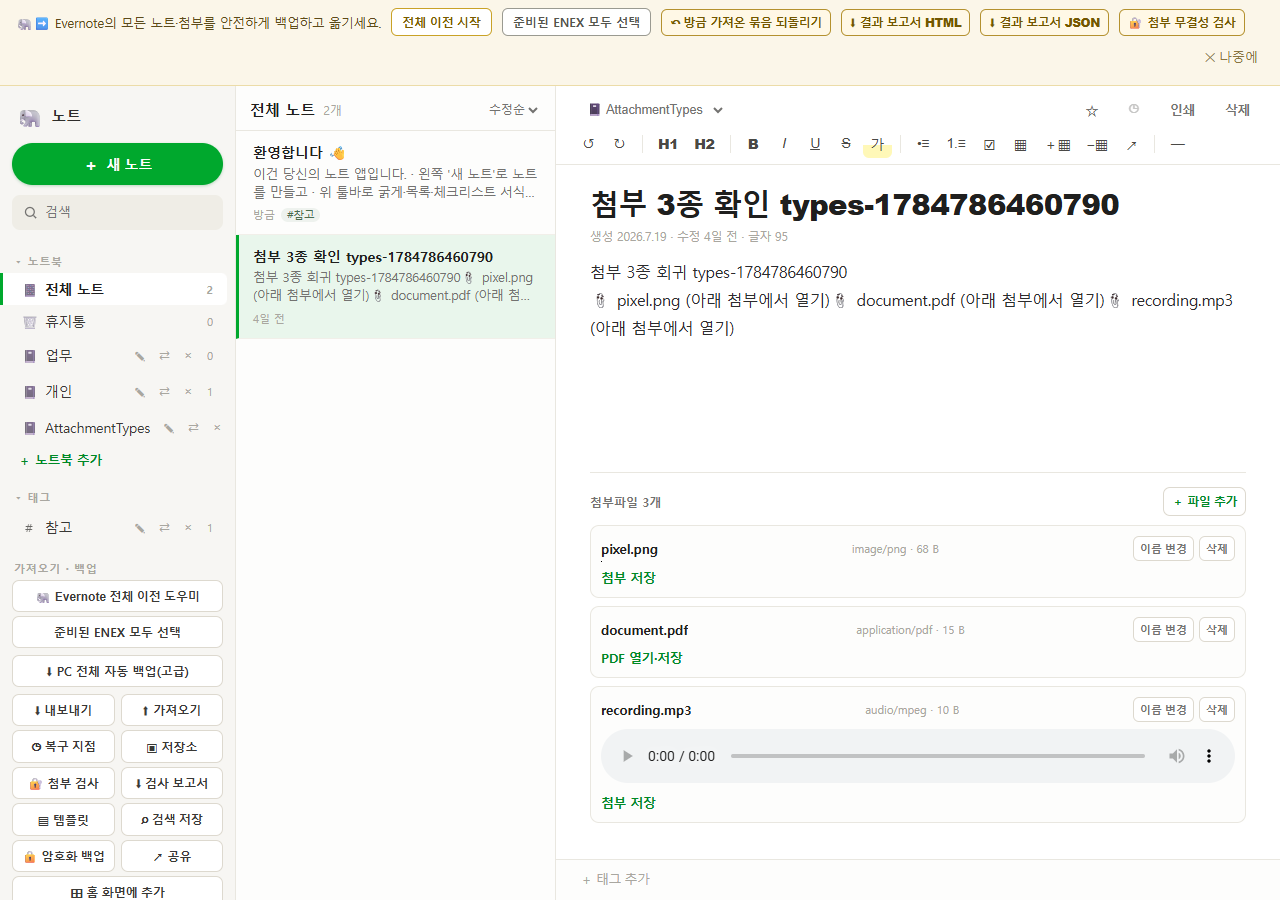
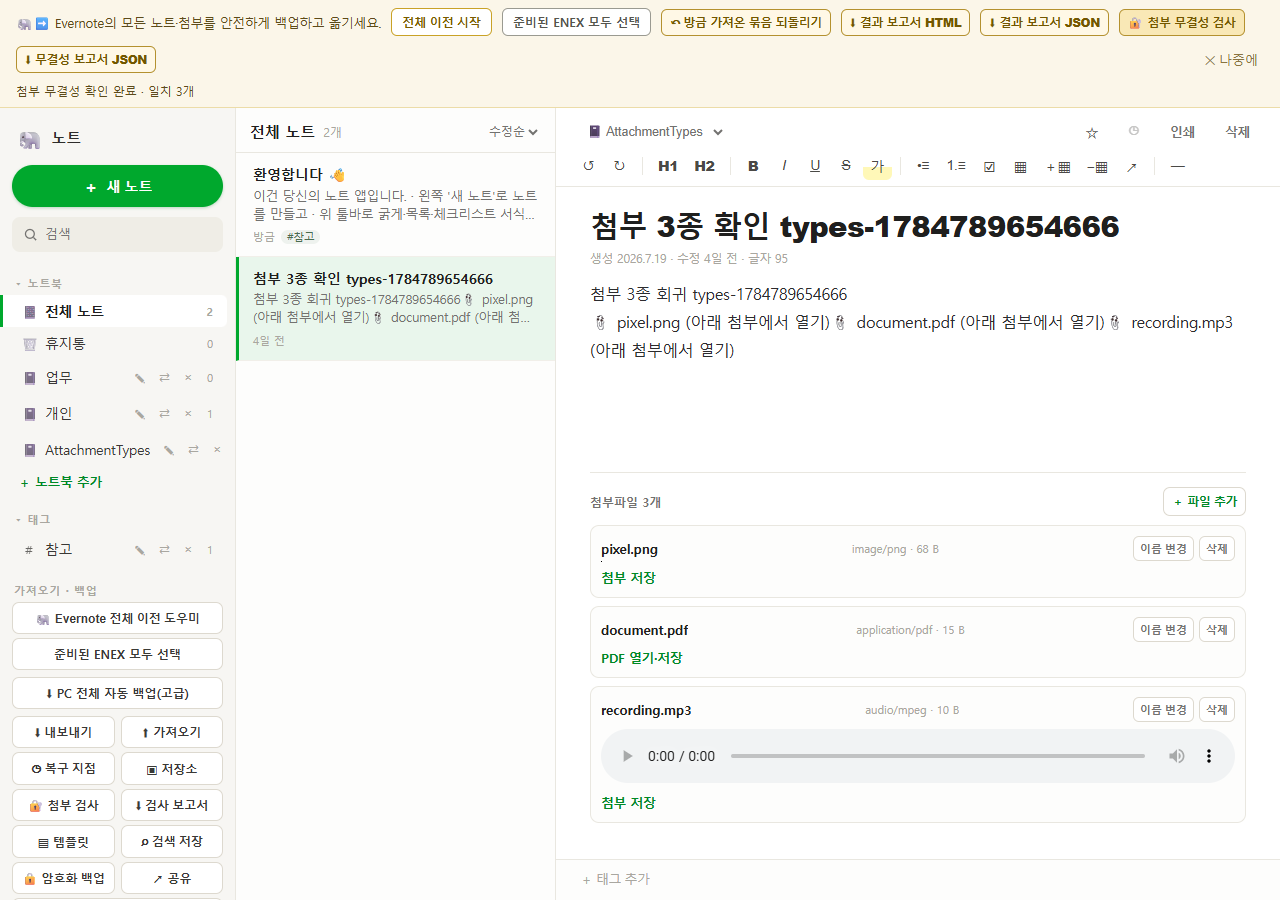
verify public v16 attachment integrity

diff --git a/NEXT_PRIORITIES.md b/NEXT_PRIORITIES.md
@@ -430,6 +430,15 @@ v5 schema 5와 Evernote 전체 이전 핵심 흐름 완료: 실제 Windows Evern
 6. [대기] 실제 PC Chrome 연결 뒤 실데이터 가져오기 무결성 감사
 7. [외부] Firebase 실제 활성화 뒤 PC→휴대폰 클라우드 여정
 
+## 2026-07-23 · 즉시 실행 17번 완료: 첨부 무결성 회귀 (추가)
+
+1. [x] 공개 v16 PDF·이미지·녹음 SHA-256·크기·참조 무결성 검사
+2. [x] 무결성 보고서의 파일명 비포함 확인
+3. [Codex] JSON 백업 스키마 독립 검사와 서비스워커 캐시 갱신 회귀
+4. [Codex] RC 자동 점검표·증거 정합성 감사
+5. [대기] 실제 PC Chrome 연결 뒤 실데이터 가져오기 무결성 감사
+6. [외부] Firebase 실제 활성화 뒤 PC→휴대폰 클라우드 여정
+
 ## 2026-07-23 · 즉시 실행 14~16번 완료: ENEX 완전성·성능 기준선 (추가)
 
 1. [x] 공개 v16 0바이트·공백·노트 0개 ENEX 경고와 무변경 회귀

diff --git a/진행문서_앱창작.md b/진행문서_앱창작.md
@@ -652,3 +652,9 @@ v5 완료·3중 저장·인수인계 완비. 다음: B(첨부/IndexedDB) 또는 
 - 정상/빈/노트0 ENEX 혼합에서는 정상 노트·첨부만 분석하고, Evernote 전체 수량이 일치할 때만 완전 이전으로 판정했다.
 - 합성 10,000노트 manifest 준비·검증이 상태 서명을 바꾸지 않고 통과했다. PC 실데이터 성능·무결성은 별도 외부 증거로 남긴다.
 - 프롬프트 개선: 있음. 대규모 합성 기준선과 실제 사용자 데이터 검증을 같은 성과로 합치지 않고, 각각의 범위·한계를 함께 기록한다.
+
+## 81) 2026-07-23 · 공개 v16 첨부 SHA-256 무결성 회귀 통과 (추가)
+
+- 즉시 실행 17번을 완료했다. PDF·이미지·녹음 합성 첨부 3종의 SHA-256·크기·참조가 모두 일치했고 문제 수는 0이었다.
+- 무결성 보고서에는 파일명·노트 내용이 들어가지 않음을 자동 확인했다. 테스트 상태는 원상복구 서명으로 정리했다.
+- 프롬프트 개선: 있음. 첨부 무결성 검사는 해시 일치만 보지 말고, 사용자에게 내려받게 되는 보고서가 파일명·본문을 불필요하게 포함하지 않는지도 함께 검사한다.

diff --git a/HANDOVER_인수인계.md b/HANDOVER_인수인계.md
@@ -634,3 +634,8 @@
 - 0바이트·공백·노트 0개 ENEX는 원인과 Evernote 재내보내기 안내를 보여 주고, 노트·휴지통·미리보기를 바꾸지 않았다.
 - 정상·빈·노트 0개 ENEX를 섞은 가져오기에서는 정상 파일만 분석하고, 전체 노트·노트북 수가 일치할 때만 완전 이전 판정을 냈다.
 - 합성 10,000노트 manifest 준비·검증은 상태 서명 무변경으로 통과했다. 이는 실데이터 성능 보증이 아니라 자동 회귀 기준선이다.
+
+## 2026-07-23 · 공개 v16 첨부 SHA-256 무결성 회귀 통과 (추가)
+
+- 공개 v16의 PDF·이미지·녹음 첨부 3종을 가져온 뒤 무결성 검사를 실제 실행했다. 해시·크기·참조가 모두 일치했고 문제 수는 0이다.
+- 검사 보고서 항목에 파일명은 포함하지 않음을 자동 확인했다. 합성 첨부·상태는 원상복구 서명으로 제거됐다.